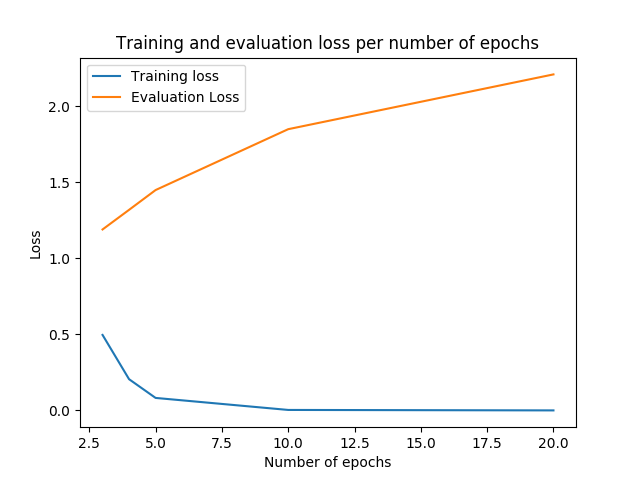
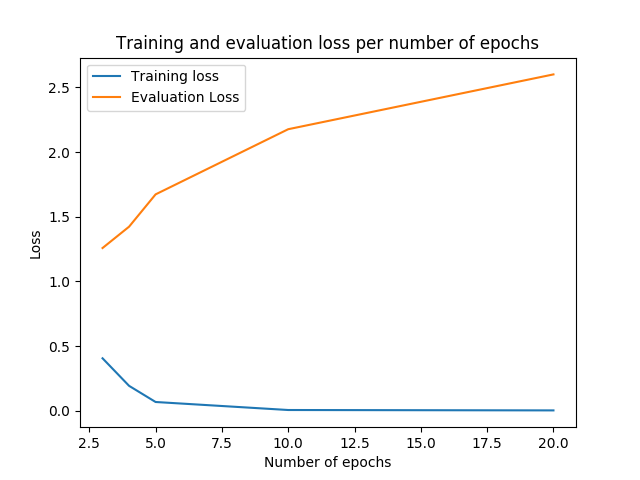
Add student t-test and update accuracies

diff --git a/tests/t_test.py b/tests/t_test.py
@@ -1,0 +1,29 @@
+from scipy import stats
+
+bert_base_accuracies = [
+    0.636,
+    0.642,
+    0.638,
+    0.649,
+    0.648
+]
+
+bert_large_accuracies = [
+    0.643,
+    0.647,
+    0.649,
+    0.662,
+    0.650
+]
+
+ind_res = stats.ttest_ind(bert_base_accuracies, bert_large_accuracies) # 0.102
+print(f'Independent results {ind_res}')
+
+ind_rel = stats.ttest_rel(bert_base_accuracies, bert_large_accuracies) # 0.102
+print(f'Paired results {ind_rel}') # 0.019
+
+# If we observe a large p-value, for example larger than 0.05 or 0.1,
+# then we cannot reject the null hypothesis of identical average scores.
+# If the p-value is smaller than the threshold, e.g. 1%, 5% or 10%,
+# then we reject the null hypothesis of equal averages.
+

diff --git a/scripts/simple_data_plot.py b/scripts/simple_data_plot.py
@@ -4,18 +4,18 @@ import matplotlib.pyplot as plt
 # Data for plotting
 epochs = [3, 4, 5, 10, 20]
 eval_loss = [
-       1.189,
-       1.318,
-       1.448,
-       1.848,
-       2.208
+       1.258,
+       1.423,
+       1.673,
+       2.177,
+       2.601
 ]
 train_loss = [
-       0.496,
-       0.205,
-       0.082,
-       0.003,
-       0.000
+       0.405,
+       0.192,
+       0.067,
+       0.005,
+       0.002
 ]
 
 fig, ax = plt.subplots()

diff --git a/run_BERT_NLI.py b/run_BERT_NLI.py
@@ -945,12 +945,8 @@ def main():
 
             outputs = np.argmax(logits, axis=1)
 
-            print('Predicted outputs:')
-            print(outputs)
             print('Predicted langs:')
             print([label_list[i] for i in outputs])
-            print('Correct ids:')
-            print(label_ids)
             print('Correct langs:')
             print([label_list[i] for i in label_ids])
 
